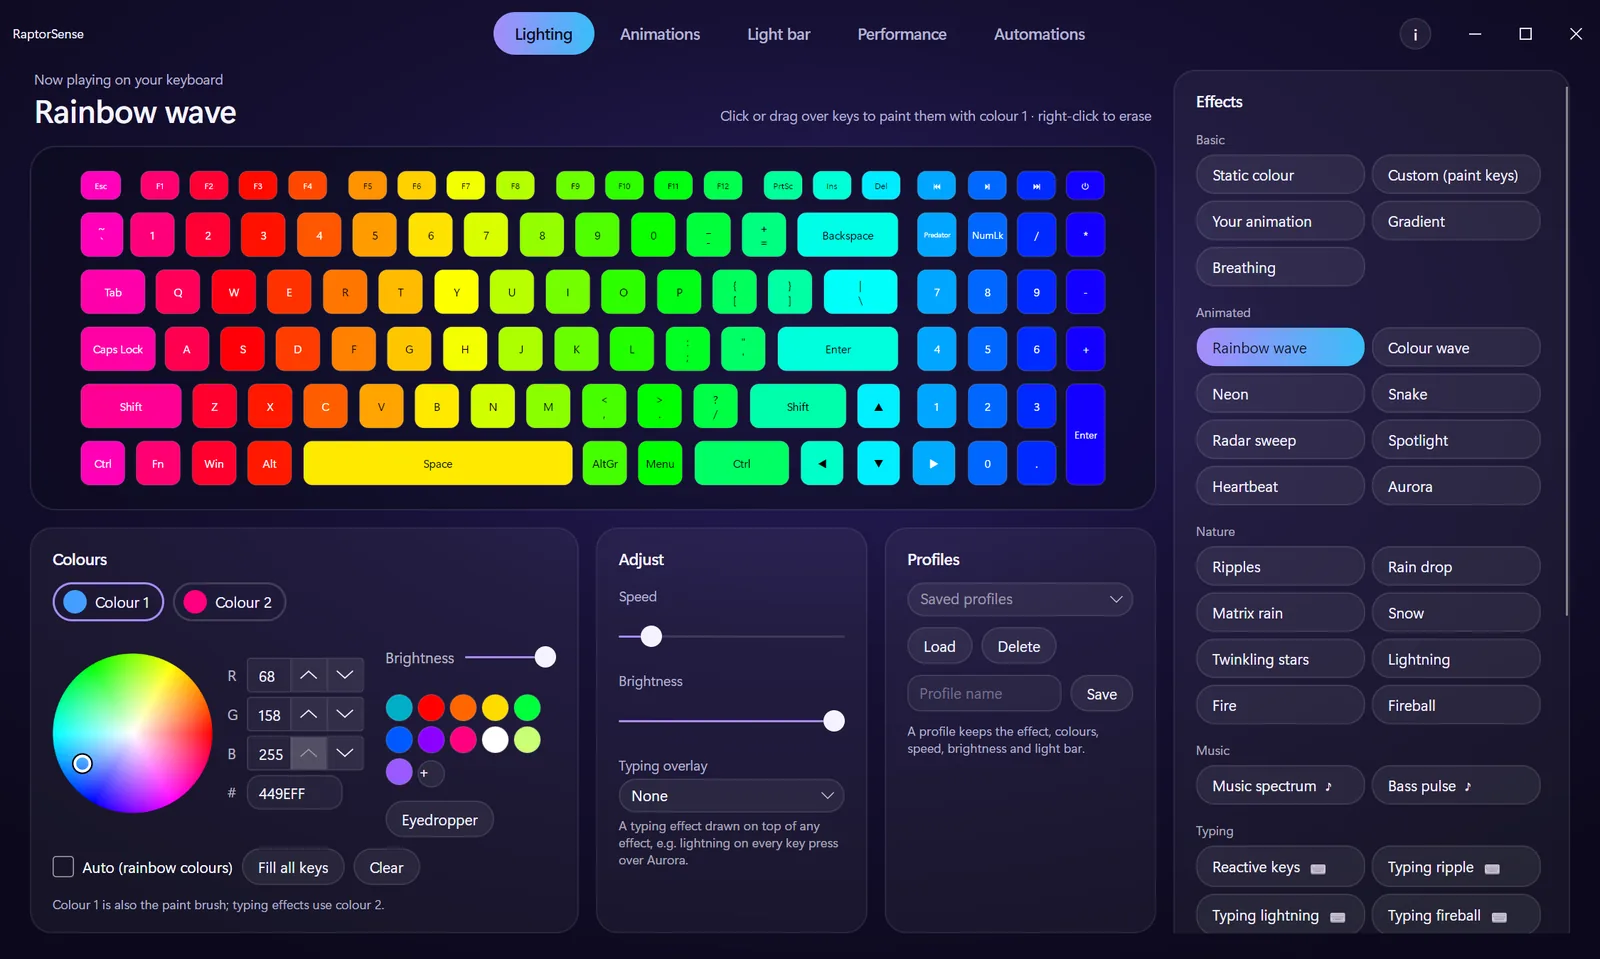
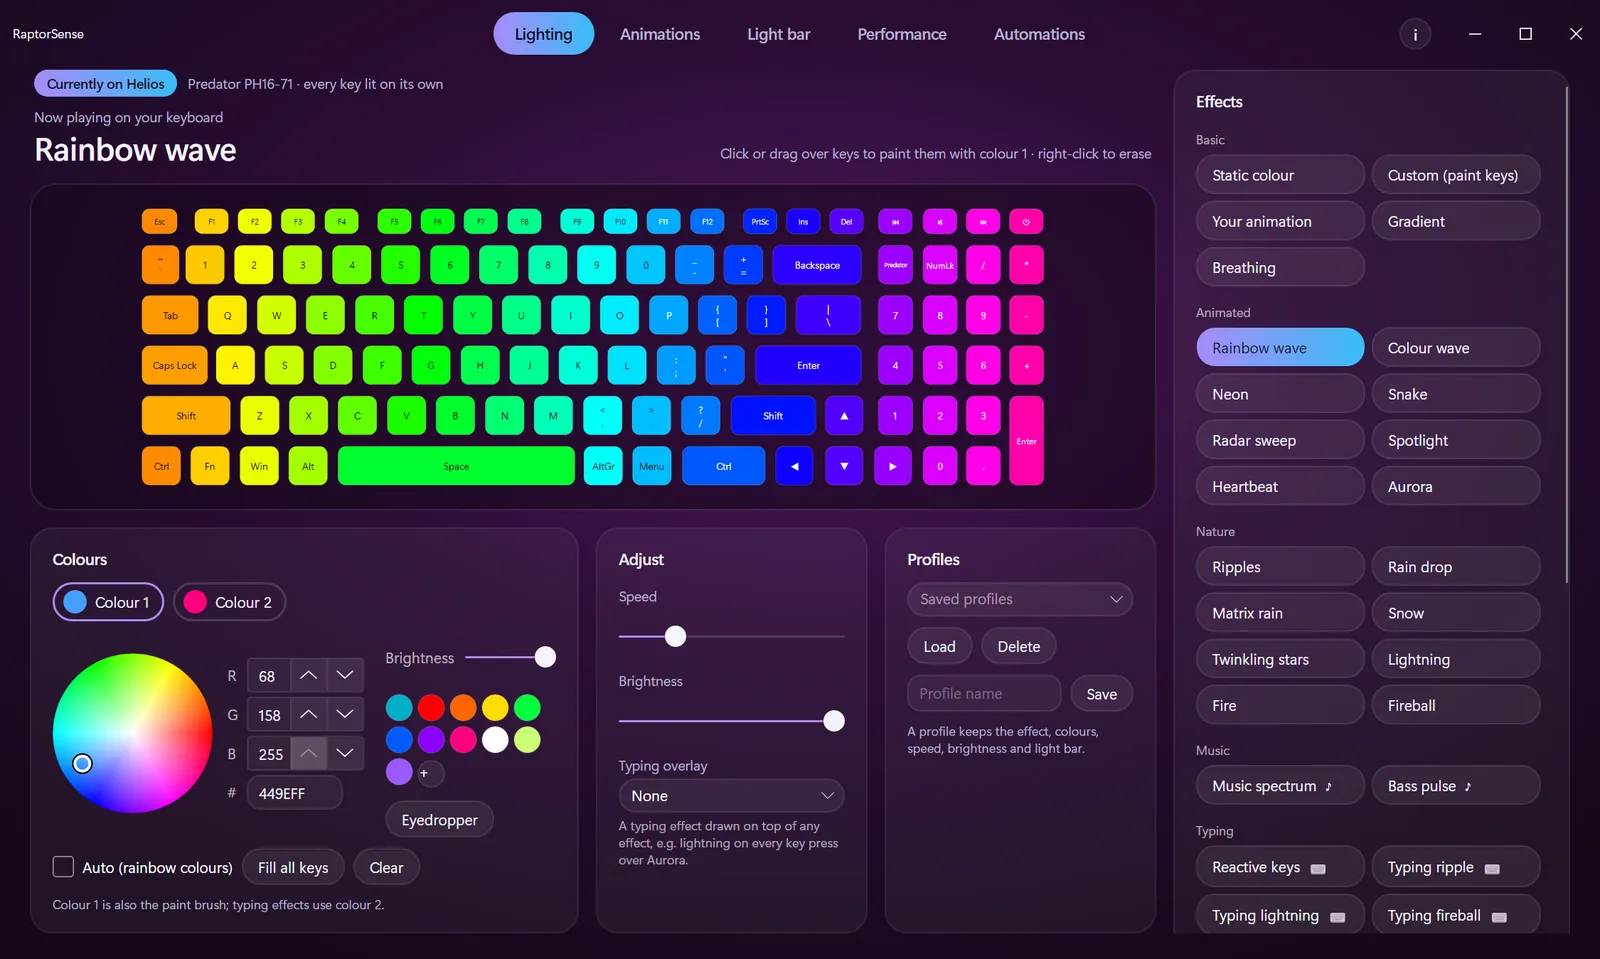
Finish the project update: page, styles, stats and new images
The previous commit only carried the art-file rename and removal;
this adds the changes that use them.

- RaptorSense: Nitro support, up to 147 effects, new screenshot,
  website link, GitHub stars in the live stats (replacing last update),
  credit the contributor who added Nitro 5 support
- Replace PC Builder with Rig Builder (the three.js game in
  pc_builder_simulator): real screenshot, Play link, credit its 2025
  team origins
- Replace Bramble with HavaMana, credited as a team of three
- Add YouTube to the footer; keep project links together when they wrap

Changed region(s): [[0.0, 0.0605, 0.75, 0.6048], [0.4062, 0.635, 0.4375, 0.6955]]

diff --git a/index.html b/index.html
@@ -24,7 +24,7 @@
   <link href="https://fonts.googleapis.com/css2?family=Chakra+Petch:wght@500;600;700&family=Inter:wght@400;500;600;700&display=swap" rel="stylesheet" />
 
   <!-- ── Custom Styles ── -->
-  <link rel="stylesheet" href="css/style.css?v=23" />
+  <link rel="stylesheet" href="css/style.css?v=25" />
 
   <!-- Hero portrait loads early -->
   <link rel="preload" as="image" href="assets/images/aaron-portrait.webp?v=2" />
@@ -165,7 +165,7 @@
             I've done two internships. At CHRIST I built a 3D avatar that copies a player's movements and a virtual court for training simulations. At SFO Technologies I mapped how an ERP system was used day to day and wrote up where its workflows could be simpler.
           </p>
           <p>
-            My main project right now is <strong>RaptorSense</strong>, a free, open-source replacement for Acer's PredatorSense app that people can download and use. Before that I built Bramble, a web app for exploring climate data, and PC Builder, a 3D world in Unity that teaches you how to put a computer together. There's also a small game further down this page.
+            My main project right now is <strong>RaptorSense</strong>, a free, open-source replacement for Acer's PredatorSense and NitroSense apps that people download and use. I also rebuilt <strong>Rig Builder</strong>, a 3D PC-building game that runs in the browser and in VR, and worked in a team of three on <strong>HavaMana</strong>, a climate forecasting dashboard for Karnataka. There's also a small game further down this page.
           </p>
           <div class="about-links">
             <a href="mailto:aaron12parayil@gmail.com" class="btn-ghost">aaron12parayil@gmail.com</a>
@@ -336,7 +336,7 @@
       <div class="showcase-panel showcase-intro">
         <div>
           <h2 class="section-title" id="projects-heading">Projects</h2>
-          <p class="showcase-lede">Three builds: a desktop app, a web app and a 3D world.</p>
+          <p class="showcase-lede">Three builds: a desktop app, a browser game and a climate dashboard.</p>
           <p class="showcase-hint" aria-hidden="true">Keep scrolling <span>→</span></p>
         </div>
       </div>
@@ -345,7 +345,7 @@
            the numbers below are the fallback if that request fails) -->
       <article class="showcase-panel project-panel" aria-labelledby="project-raptorsense">
         <figure class="project-media">
-          <img src="assets/images/raptorsense.webp" alt="RaptorSense's Lighting tab: a rainbow wave across a preview of the laptop keyboard, with colour, speed, profile and effect controls" width="1600" height="959" loading="lazy" />
+          <img src="assets/images/raptorsense.webp?v=2" alt="RaptorSense's Lighting tab: a rainbow wave across a preview of the laptop keyboard, with colour, speed, profile and effect controls" width="1600" height="959" loading="lazy" />
         </figure>
 
         <div class="project-body">
@@ -354,22 +354,22 @@
           <h3 class="project-title" id="project-raptorsense">RaptorSense</h3>
 
           <p class="project-description">
-            A free, open-source replacement for Acer's PredatorSense app on Predator laptops. It drives the per-key RGB keyboard and controls fans and power, and runs from the tray in about 35 MB with no accounts or telemetry.
+            A free, open-source replacement for Acer's PredatorSense and NitroSense apps on Predator and Nitro laptops. It drives the keyboard lighting and controls fans and power, with no account and no telemetry. Tested on a Predator Helios 16 and a Nitro 5.
           </p>
 
           <ul class="project-features">
-            <li>20 lighting effects, plus ones that react to music and typing, on a live preview of the keyboard</li>
-            <li>A frame-by-frame editor for your own keyboard animations</li>
-            <li>Fan speeds, power profiles, temperatures and rules like "Turbo while this game is open"</li>
+            <li>Up to 147 lighting effects, including ones that follow your music and your typing</li>
+            <li>A frame-by-frame editor for your own keyboard animations, shareable as files</li>
+            <li>Fan speeds, power profiles, temperatures and automations like "Turbo while this game is open"</li>
           </ul>
 
           <div class="project-live" data-repo="aaronparayil/RaptorSense">
-            <p class="live-label"><span class="live-dot" aria-hidden="true"></span><span class="live-text">On GitHub, 15 Nov 2026</span></p>
+            <p class="live-label"><span class="live-dot" aria-hidden="true"></span><span class="live-text">On GitHub, 20 Nov 2026</span></p>
             <dl class="live-stats">
-              <div><dt>Downloads</dt><dd><span data-stat="downloads">33</span></dd></div>
-              <div><dt>Latest version</dt><dd><span data-stat="version">v1.8.4</span></dd><dd class="live-sub" data-stat="released">15 Nov 2026</dd></div>
-              <div><dt>Releases</dt><dd><span data-stat="releases">12</span></dd><dd class="live-sub" data-stat="since">since 4 Nov 2026</dd></div>
-              <div><dt>Last update</dt><dd><span data-stat="updated">15 Nov</span></dd></div>
+              <div><dt>Downloads</dt><dd><span data-stat="downloads">98</span></dd></div>
+              <div><dt>GitHub stars</dt><dd><span data-stat="stars">14</span></dd></div>
+              <div><dt>Latest version</dt><dd><span data-stat="version">v1.8.9</span></dd><dd class="live-sub" data-stat="released">20 Nov 2026</dd></div>
+              <div><dt>Releases</dt><dd><span data-stat="releases">19</span></dd><dd class="live-sub" data-stat="since">since 4 Nov 2026</dd></div>
             </dl>
           </div>
 
@@ -382,8 +382,9 @@
           </div>
 
           <div class="project-footer">
-            <span class="project-role">Solo project</span>
+            <span class="project-role">Created and maintained by me; Nitro 5 support from a contributor</span>
             <span class="project-links">
+              <a href="https://aaronkp.tech/RaptorSense/" class="btn-ghost" target="_blank" rel="noopener">Website ↗</a>
               <a href="https://github.com/aaronparayil/RaptorSense" class="btn-ghost" target="_blank" rel="noopener">Source ↗</a>
               <a href="https://github.com/aaronparayil/RaptorSense/releases/latest" class="btn-ghost" target="_blank" rel="noopener">Download ↗</a>
             </span>
@@ -391,77 +392,78 @@
         </div>
       </article>
 
-      <!-- Project 2: Bramble -->
-      <article class="showcase-panel project-panel" aria-labelledby="project-bramble">
+      <!-- Project 2: Rig Builder -->
+      <article class="showcase-panel project-panel" aria-labelledby="project-rigbuilder">
         <figure class="project-media">
-          <img src="assets/images/bramble-art.svg?v=2" alt="Illustration of the Bramble climate dashboard: warming stripes and a temperature trend chart" width="800" height="520" loading="lazy" />
+          <img src="assets/images/rig-builder.webp" alt="Rig Builder's workbench: a finished PC with an RTX 4090 and liquid cooler, next to a monitor showing the benchmark at 1080p, 1440p and 4K" width="1600" height="900" loading="lazy" />
         </figure>
 
         <div class="project-body">
           <p class="project-index">02 / 03</p>
-          <p class="project-year">Web app · ML &nbsp;/&nbsp; Aug–Nov 2024</p>
-          <h3 class="project-title" id="project-bramble">Bramble</h3>
+          <p class="project-year">Browser game · 3D &nbsp;/&nbsp; Aug 2025 – now</p>
+          <h3 class="project-title" id="project-rigbuilder">Rig Builder</h3>
 
           <p class="project-description">
-            A web app for exploring historical climate data. You can look at how temperatures have changed across the world on a map, compare trends over the years, and run an ML model that projects where they're heading.
+            A 3D PC-building game that runs in the browser. You walk around a showroom of real parts, take them to the workbench and build a PC step by step, then power it on and benchmark it. The whole game is under 1 MB.
           </p>
 
           <ul class="project-features">
-            <li>World map with climate data layered on top</li>
-            <li>Dashboard for comparing trends across years</li>
-            <li>Interface for running the ML prediction model</li>
-            <li>A chatbot that shows new users around</li>
+            <li>Real compatibility rules: CPU sockets, DDR4 vs DDR5, cooler brackets, power budgets</li>
+            <li>A POST check on power-on, then frame-rate estimates at 1080p, 1440p and 4K</li>
+            <li>Six budget challenges, side-by-side part comparisons, and full VR on WebXR headsets</li>
           </ul>
 
           <div class="project-tags">
-            <span class="project-tag">Python</span>
-            <span class="project-tag">SQLAlchemy</span>
-            <span class="project-tag">React JS</span>
-            <span class="project-tag">Machine Learning</span>
-            <span class="project-tag">Data Viz</span>
+            <span class="project-tag">three.js</span>
+            <span class="project-tag">JavaScript</span>
+            <span class="project-tag">Vite</span>
+            <span class="project-tag">WebXR</span>
+            <span class="project-tag">Web Audio</span>
           </div>
 
           <div class="project-footer">
-            <span class="project-role">My role: full-stack development and ML integration</span>
+            <span class="project-role">Started as a 2025 team workshop project; I rebuilt it in 2026</span>
             <span class="project-links">
-              <a href="https://github.com/aaronparayil/bramble" class="btn-ghost" target="_blank" rel="noopener">Source ↗</a>
+              <a href="https://aaronkp.tech/pc_builder_simulator/" class="btn-ghost" target="_blank" rel="noopener">Play it ↗</a>
+              <a href="https://github.com/aaronparayil/pc_builder_simulator" class="btn-ghost" target="_blank" rel="noopener">Source ↗</a>
             </span>
           </div>
         </div>
       </article>
 
-      <!-- Project 3: PC Builder -->
-      <article class="showcase-panel project-panel" aria-labelledby="project-pcbuilder">
+      <!-- Project 3: HavaMana (illustration until there's a real screenshot) -->
+      <article class="showcase-panel project-panel" aria-labelledby="project-havamana">
         <figure class="project-media">
-          <img src="assets/images/pcbuilder-art.svg?v=2" alt="Blueprint-style illustration of a motherboard with a graphics card being installed" width="800" height="520" loading="lazy" />
+          <img src="assets/images/climate-art.svg" alt="Illustration of a climate dashboard: warming stripes above a temperature trend with a forecast" width="800" height="520" loading="lazy" />
         </figure>
 
         <div class="project-body">
           <p class="project-index">03 / 03</p>
-          <p class="project-year">3D · Game &nbsp;/&nbsp; Jun–Oct 2025</p>
-          <h3 class="project-title" id="project-pcbuilder">PC Builder</h3>
+          <p class="project-year">Web app · ML &nbsp;/&nbsp; Aug–Sep 2026</p>
+          <h3 class="project-title" id="project-havamana">HavaMana</h3>
 
           <p class="project-description">
-            A 3D world that teaches you how to build a PC, from choosing the parts to putting them together. You walk around as a character and handle life-size models of the hardware.
+            A climate digital twin for Karnataka, with Bengaluru as the pilot. A React dashboard shows rainfall and temperature forecasts from a ConvLSTM model, alongside simpler baselines to compare against.
           </p>
 
           <ul class="project-features">
-            <li>Walkable character in an environment I designed</li>
-            <li>Detailed models of the CPU, GPU, RAM, motherboard and more, made in Blender</li>
-            <li>Step-by-step instructions that guide you through the build</li>
+            <li>Interactive dashboard of the region's climate</li>
+            <li>Forecasts of rainfall and daily maximum and minimum temperature</li>
+            <li>Model comparisons and evaluation metrics, served by a Flask API</li>
           </ul>
 
           <div class="project-tags">
-            <span class="project-tag">Unity</span>
-            <span class="project-tag">Blender</span>
-            <span class="project-tag">3D Modelling</span>
-            <span class="project-tag">Game Design</span>
+            <span class="project-tag">React</span>
+            <span class="project-tag">Vite</span>
+            <span class="project-tag">Flask</span>
+            <span class="project-tag">TensorFlow</span>
+            <span class="project-tag">ConvLSTM</span>
           </div>
 
           <div class="project-footer">
-            <span class="project-role">My role: 3D development and environment design</span>
+            <span class="project-role">Team of three; I built the dashboard and set up the dataset</span>
             <span class="project-links">
-              <a href="https://github.com/aaronparayil/pc_builder_simulator" class="btn-ghost" target="_blank" rel="noopener">Source ↗</a>
+              <a href="https://github.com/aaronparayil/havamana-digitaltwin" class="btn-ghost" target="_blank" rel="noopener">Source ↗</a>
             </span>
           </div>
         </div>
@@ -625,6 +627,7 @@
         <a href="https://github.com/aaronparayil" target="_blank" rel="noopener">GitHub</a>
         <a href="https://linkedin.com/in/aaronparayil" target="_blank" rel="noopener">LinkedIn</a>
         <a href="https://www.credly.com/users/aaronkp" target="_blank" rel="noopener">Credly</a>
+        <a href="https://www.youtube.com/@aaronxstone" target="_blank" rel="noopener">YouTube</a>
         <a href="mailto:aaron12parayil@gmail.com">Email</a>
         <a href="#hero">Back to top ↑</a>
       </div>
@@ -646,16 +649,16 @@
           crossorigin="anonymous" referrerpolicy="no-referrer"></script>
 
   <!-- Skill tiles behind the portrait card -->
-  <script src="js/roster.js?v=23"></script>
+  <script src="js/roster.js?v=25"></script>
 
   <!-- Live RaptorSense stats from the GitHub API -->
-  <script src="js/live-stats.js?v=23"></script>
+  <script src="js/live-stats.js?v=25"></script>
 
   <!-- Uptime mini-game -->
-  <script src="js/game.js?v=23"></script>
+  <script src="js/game.js?v=25"></script>
 
   <!-- Main animations + interactions -->
-  <script src="js/main.js?v=23"></script>
+  <script src="js/main.js?v=25"></script>
 
 </body>
 </html>

diff --git a/js/live-stats.js b/js/live-stats.js
@@ -1,7 +1,7 @@
 /**
  * live-stats.js
  * Fills the RaptorSense stats row from the public GitHub API:
- * total downloads, latest version, release count and last update.
+ * total downloads, stars, latest version and release count.
  *
  * - Two unauthenticated requests per visit (GitHub allows 60/hour per IP),
  *   cached in sessionStorage for 5 minutes and refreshed while the tab is open.
@@ -17,7 +17,7 @@
 
   const REPO = box.dataset.repo;
   const API = `https://api.github.com/repos/${REPO}`;
-  const CACHE_KEY = `live-stats:${REPO}`;
+  const CACHE_KEY = `live-stats:v2:${REPO}`;
   const CACHE_MS = 5 * 60 * 1000;
   const reducedMotion = window.matchMedia('(prefers-reduced-motion: reduce)').matches;
 
@@ -28,15 +28,6 @@
   const rtf = window.Intl && Intl.RelativeTimeFormat
     ? new Intl.RelativeTimeFormat('en', { numeric: 'auto' })
     : null;
-
-  // Short enough to sit on one line: "just now", "13 min ago", "2 hr ago", "yesterday"
-  function ago(iso) {
-    const secs = Math.max(0, (Date.now() - new Date(iso)) / 1000);
-    if (secs < 60) return 'just now';
-    if (secs < 3600) return `${Math.round(secs / 60)} min ago`;
-    if (secs < 86400) return `${Math.round(secs / 3600)} hr ago`;
-    return daysAgo(iso);
-  }
 
   // Calendar-day wording for release dates ("today", "2 days ago")
   function daysAgo(iso) {
@@ -82,7 +73,7 @@
       released: releases[0].published_at,
       releases: releases.length,
       first: releases[releases.length - 1].published_at,
-      updated: repo.pushed_at,
+      stars: repo.stargazers_count,
     };
     writeCache(data);
     return data;
@@ -125,7 +116,7 @@
     el('released').textContent = `released ${daysAgo(d.released)}`;
     el('releases').textContent = d.releases;
     el('since').textContent = `since ${dateFmt.format(new Date(d.first))}`;
-    el('updated').textContent = ago(d.updated);
+    el('stars').textContent = d.stars;
     label.textContent = 'Live from GitHub';
     box.classList.add('is-live');
   }

diff --git a/css/style.css b/css/style.css
@@ -1107,9 +1107,10 @@ button:focus-visible {
 
 .project-footer {
   display: flex;
+  flex-wrap: wrap;
   align-items: center;
   justify-content: space-between;
-  gap: 1rem;
+  gap: 0.6rem 1rem;
   margin-top: auto;
   padding-top: 1.1rem;
   border-top: 1px solid var(--line);
@@ -1122,7 +1123,7 @@ button:focus-visible {
 
 .project-links {
   display: flex;
-  flex-wrap: wrap;
+  flex-wrap: nowrap;
   gap: 1.25rem;
 }
 
